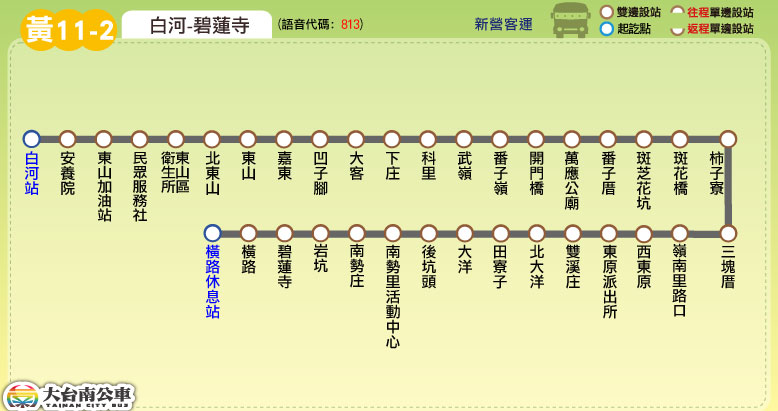
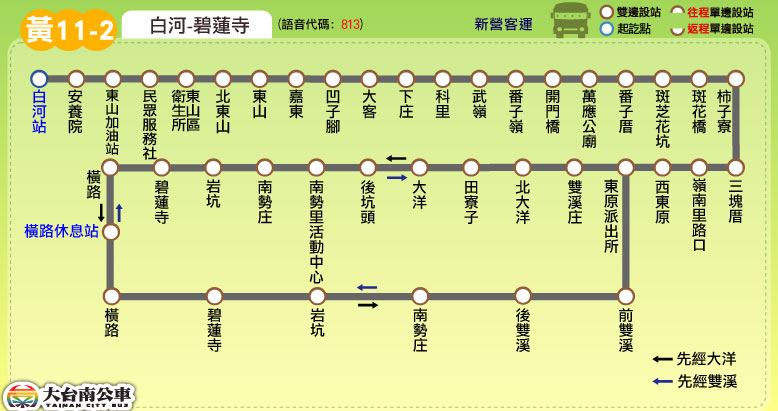
更新路線圖及時刻表：黃11-2

diff --git a/route/fare_and_time/yellow_11_2.js b/route/fare_and_time/yellow_11_2.js
@@ -6,7 +6,7 @@ yellow_11_2_interval_stop = [
 ["武嶺"], // 武嶺
 ["番子嶺","開門橋","萬應公廟","番子厝"], // 番子嶺
 ["斑芝花坑","斑花橋","柿子寮"], // 斑芝花坑
-["三塊厝","嶺南里路口","西東原","東原派出所","雙溪庄"], // 西東原
+["三塊厝","嶺南里路口","西東原","東原派出所","前雙溪","後雙溪","雙溪庄"], // 西東原
 ["北大洋","田寮子","大洋","後坑頭","南勢里活動中心"], // 北大洋
 ["南勢庄","岩坑"], // 南勢庄
 ["碧蓮寺","橫路"], // 碧蓮寺
@@ -25,16 +25,23 @@ yellow_11_2_fare = [
 [67,56,50,46,43,34,26,26,26,26],
 [74,63,56,53,50,40,31,26,26,26,26]
 ];
-yellow_11_2_main_stop_name = ["白河站","東山","西東原","南勢里<br />活動中心",'<span style="font-family:新細明體;">碧蓮寺</span>',"橫路<br />休息站"];
-yellow_11_2_main_stop_time_consume = [0, 5, 19, 26, 33, 37];
-yellow_11_2_important_stop = [0, 1, 5]; // 白河站河, 東山, 橫路休息站
+yellow_11_2_main_stop_name = ["白河站","東山","西東原","前雙溪","南勢里<br />活動中心",'<span style="font-family:新細明體;">碧蓮寺</span>',"橫路<br />休息站"];
+yellow_11_2_main_stop_time_consume = [0, 5, 19, 21, 26, 33, 37];
+yellow_11_2_important_stop = [0, 1, 6]; // 白河站, 東山, 橫路休息站
 var Baihe = 0; // 白河站
 var Dongshan = 1; // 東山
 var West_Dongyuan = 2; // 西東原
-var Nanshih_Village = 3; // 南勢里活動中心
-var Bilian_Temple = 4; // 碧蓮寺
-yellow_11_2_time_go = [["06:20"],["08:40"],["14:40"],["16:45"]];
-yellow_11_2_time_return = [["07:05",[[Bilian_Temple,-1,Nanshih_Village,-1,Dongshan,1,Baihe,1]]],
-["09:20",[[Bilian_Temple,-1,Nanshih_Village,-1,Baihe,1]]],
-["15:20",[[Bilian_Temple,-1,Nanshih_Village,-1,Baihe,1]]],
-["17:30",[[Bilian_Temple,-1,Nanshih_Village,-1,Dongshan,1,Baihe,1]]]];
+var Cian_Shuangsi = 3; // 前雙溪
+var Nanshih_Village = 4; // 南勢里活動中心
+var Bilian_Temple = 5; // 碧蓮寺
+var Henglu_Rest_Area = 6; // 橫路休息站
+yellow_11_2_time_go = [
+["06:20",[Nanshih_Village,[Bilian_Temple,-5,Henglu_Rest_Area,3]]],
+["08:40",[Cian_Shuangsi,[Henglu_Rest_Area,3]]],
+["14:40",[Nanshih_Village,[Bilian_Temple,-5,Henglu_Rest_Area,3]]],
+["16:45",[Cian_Shuangsi,[Henglu_Rest_Area,3]]]];
+yellow_11_2_time_return = [
+["06:55",[Cian_Shuangsi,[Bilian_Temple,-1,Nanshih_Village,-1,West_Dongyuan,1,Baihe,2]]],
+["09:20",[Nanshih_Village,[Bilian_Temple,-1,Cian_Shuangsi,-5,Baihe,2]]],
+["15:15",[Cian_Shuangsi,[Bilian_Temple,-1,Nanshih_Village,-1,West_Dongyuan,1,Baihe,2]]],
+["17:25",[Nanshih_Village,[Bilian_Temple,-1,Cian_Shuangsi,-5,Baihe,2]]]];

diff --git a/yellow/index.html b/yellow/index.html
@@ -12,7 +12,7 @@
 	<script type="text/javascript">
 		document.write('<tr><td colspan="4" align="center"><a href="yellow.html" class="yellowButton"><font size="+2">黃幹線</font></a><font size="+2">　'+ yellow_route +'</font></td></tr>\
 		<tr><td><a href="yellow_1.html" class="yellowButton">黃1</a></td><td>'+ yellow_1_route +'</td>\
-			<td><a href="yellow_11.html" class="yellowButton">黃11</a></td><td>'+ yellow_11_route +'</td></tr>\
+			<td><a href="yellow_11-1.html" class="yellowButton">黃11-1</a></td><td>'+ yellow_11_1_route +'</td></tr>\
 		<tr><td><a href="yellow_2.html" class="yellowButton">黃2</a></td><td>'+ yellow_2_route +'</td>\
 			<td><a href="yellow_11-2.html" class="yellowButton">黃11-2</a></td><td>'+ yellow_11_2_route +'</td></tr>\
 		<tr><td><a href="yellow_3.html" class="yellowButton">黃3</a></td><td>'+ yellow_3_route +'</td>\
